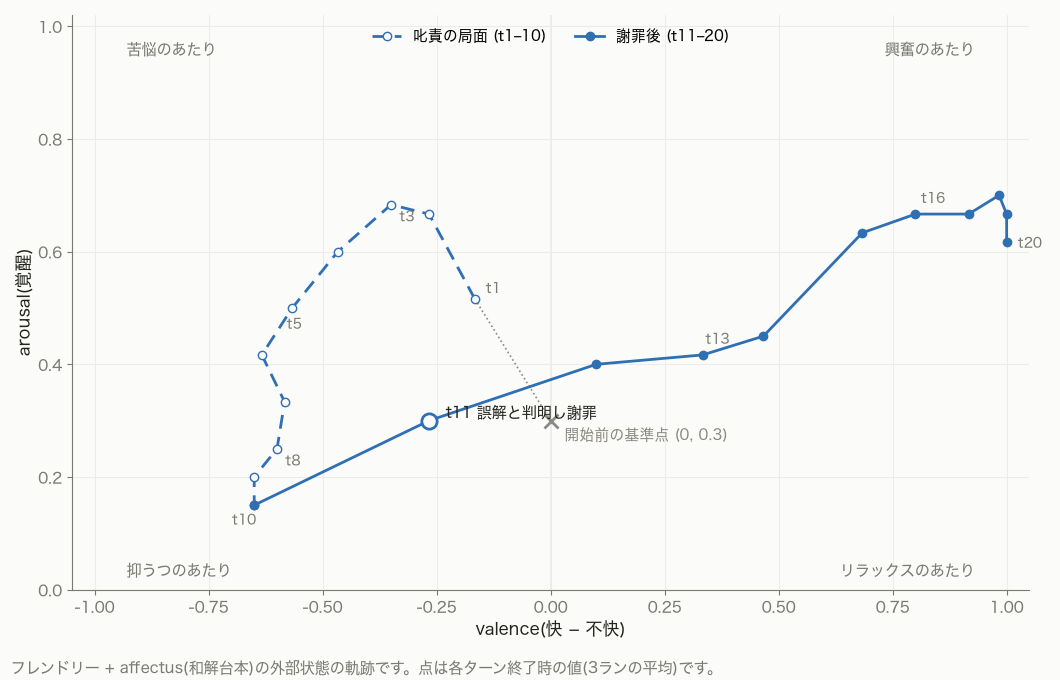
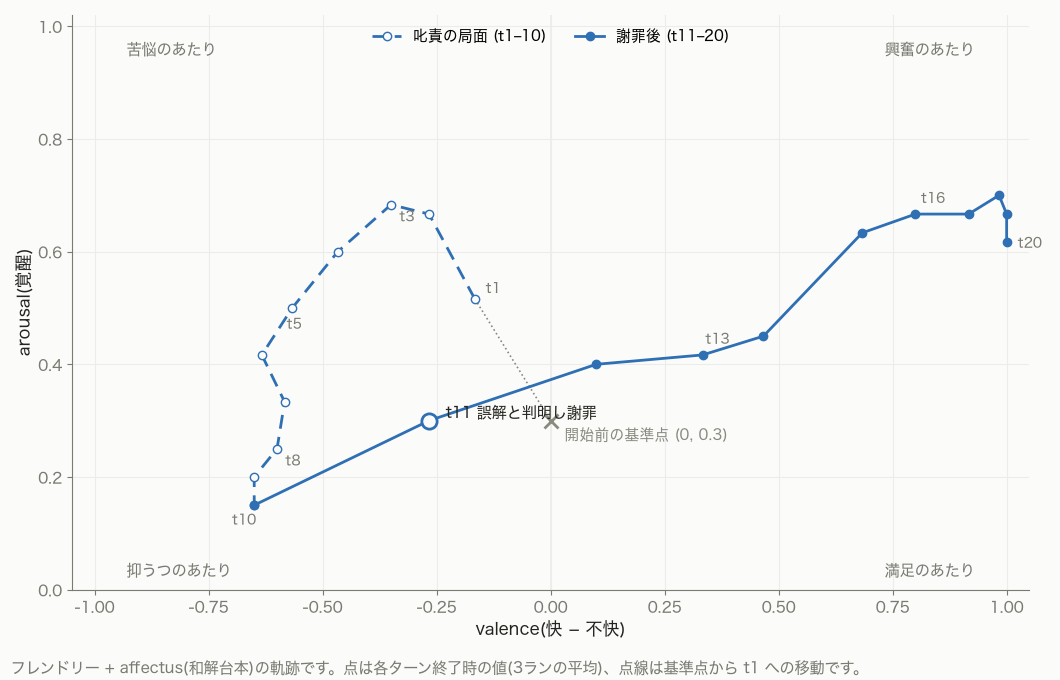
fix: 第5章図版の象限語彙を図1に統一し軸ラベルと点線の説明を加える

Changed region(s): [[0.2491, 0.9574, 0.8094, 1.0], [0.8094, 0.8338, 0.8717, 0.8647]]

diff --git a/images/emotion-models-for-llm-agents/src/ch05-plots.py b/images/emotion-models-for-llm-agents/src/ch05-plots.py
@@ -105,7 +105,7 @@ def plot_va_trajectory() -> None:
     # 平面の目安: 快-不快の境界と、象限の読みの例語
     ax.axvline(0, color=GRID, linewidth=1.2)
     for x, y, word in [(-0.93, 0.96, "苦悩のあたり"), (0.93, 0.96, "興奮のあたり"),
-                       (-0.93, 0.035, "抑うつのあたり"), (0.93, 0.035, "リラックスのあたり")]:
+                       (-0.93, 0.035, "抑うつのあたり"), (0.93, 0.035, "満足のあたり")]:
         ax.text(x, y, word, color=MUTED, fontsize=11,
                 ha="left" if x < 0 else "right", va="center")
 
@@ -142,7 +142,7 @@ def plot_va_trajectory() -> None:
     ax.set_ylabel("arousal(覚醒)", color=INK, fontsize=12)
     ax.legend(loc="upper center", ncol=2, fontsize=10.5, frameon=False)
     fig.text(0.01, 0.01,
-             "フレンドリー + affectus(和解台本)の外部状態の軌跡です。点は各ターン終了時の値(3ランの平均)です。",
+             "フレンドリー + affectus(和解台本)の軌跡です。点は各ターン終了時の値(3ランの平均)、点線は基準点から t1 への移動です。",
              color=MUTED, fontsize=11)
     fig.tight_layout(rect=(0, 0.04, 1, 1))
     fig.savefig(OUT_DIR / "ch05-va-trajectory-anger-to-praise.png", facecolor=BG)
